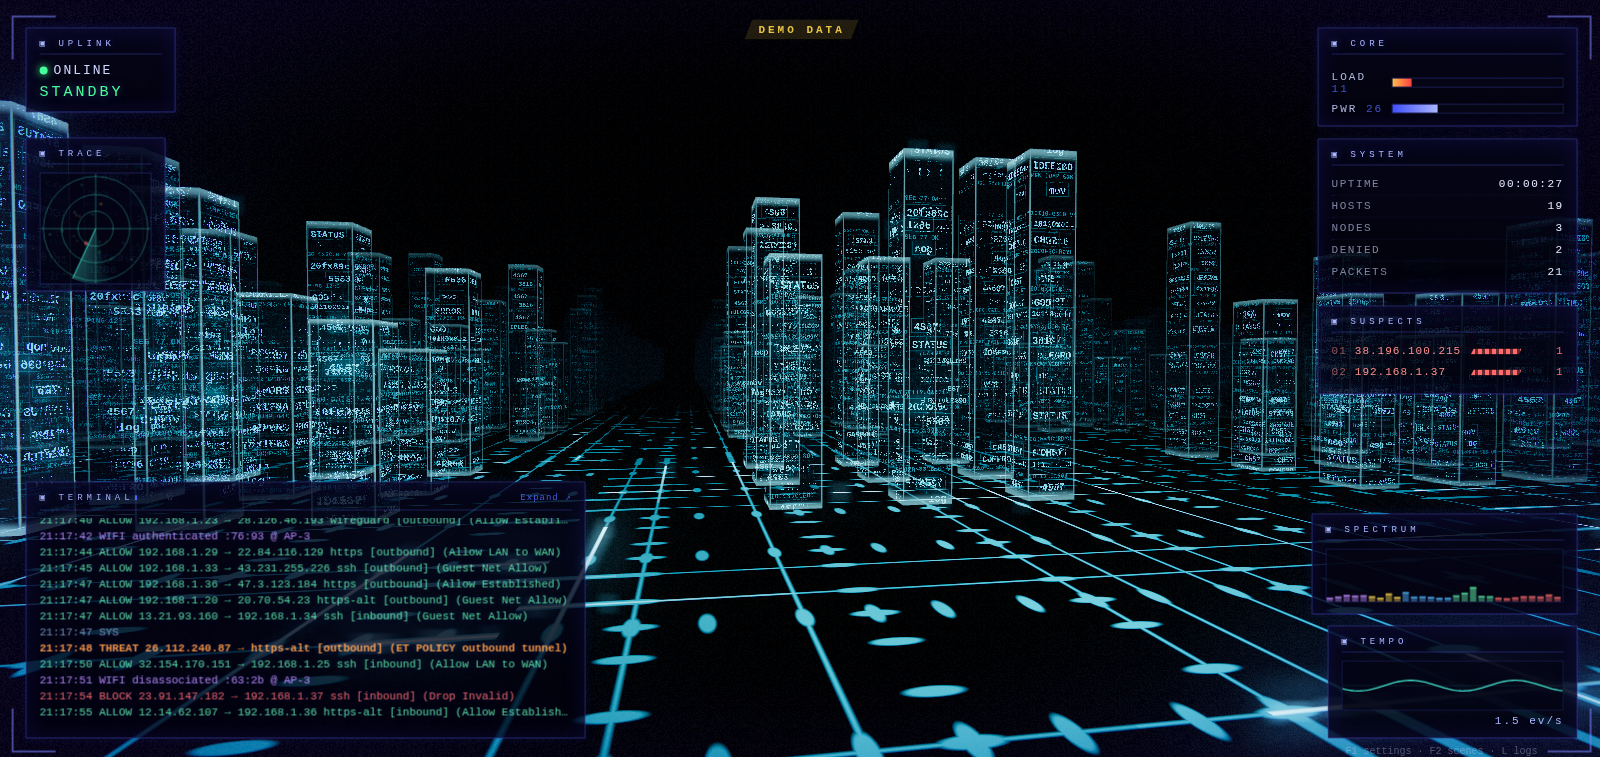
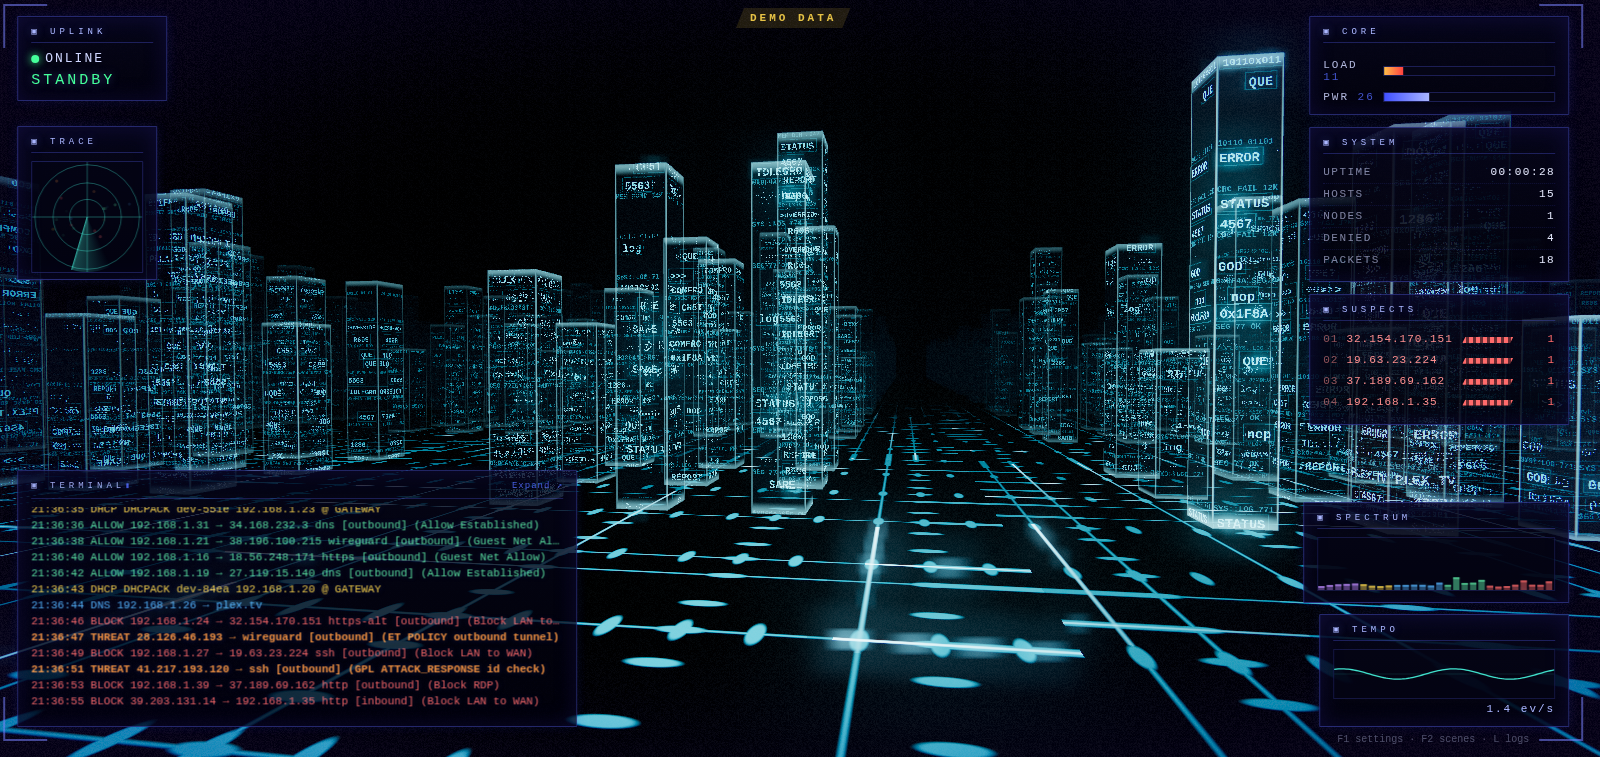
Gibson: the turn pivots in place at the intersection - no more clipping
The city kept streaming forward while it rotated, which sheared the block
lattice: the street the flight turned into was no longer where the camera
was pointing, and the towers came right through it. The camera now holds
still at the corner while the whole city swings around it (the flow pauses
for the pivot and resumes out the other side), so the lattice stays true
and the new street is dead ahead every time. Shorter swing, quieter copy.

diff --git a/web/src/themes/gibson/index.ts b/web/src/themes/gibson/index.ts
@@ -96,7 +96,7 @@ async function create(host: ThemeHost<typeof GIBSON_DEFAULTS>, init: RendererIni
   // the film's signs are rare, punctuation not wallpaper: minutes apart
   let nextDeny = 0, nextGrant = 0, flyT = Math.random() * 100;
   // the intersection turn: full 90s down the computer city's grid
-  const TURN_DUR = 3.2;
+  const TURN_DUR = 2.2;
   let turning = false, turnT = 0, turnDone = 0, turnDir = 1, crossIn = CITY_P * (1 + ((Math.random() * 2) | 0));
   const banner = (text: string, color: string, nextRef: 'deny' | 'grant', everySec: number, jitterSec: number) => {
     const now = performance.now();
@@ -187,11 +187,12 @@ async function create(host: ThemeHost<typeof GIBSON_DEFAULTS>, init: RendererIni
     }
     flyT += dtReal;
     const rate = state.rate30s / 30;
-    const speed = (0.9 + Math.min(2.5, rate * 0.06) + heat * 0.9) * settings.gScrollSpeed * (lockOn ? 0.3 : 1);
+    const speed = (0.9 + Math.min(2.5, rate * 0.06) + heat * 0.9) * settings.gScrollSpeed * (lockOn ? 0.3 : turning ? 0 : 1);
 
-    // the computer city: fly down a corridor and make a full 90-degree turn
-    // at every intersection. The camera stays put and the whole city swings
-    // around it - that swing IS the turn.
+    // the computer city: fly down a street and turn at every intersection.
+    // The camera holds still at the corner while the whole city swings around
+    // it, so the lattice stays true: when the swing ends, the new street is
+    // dead ahead. The flow pauses for the pivot and resumes out the other side.
     if (turning) {
       turnT += dtReal;
       const p = Math.min(1, turnT / TURN_DUR);

diff --git a/README.md b/README.md
@@ -19,8 +19,8 @@ your own traffic. Pick a scene per screen:
   screensavers, where your traffic swims past as fish
 - **The Gibson**: the storage wall from *Hackers* — a computer city of
   translucent monolith blocks lined in glowing cyan, flown through at street
-  level with full 90-degree turns at every intersection, until the camera
-  swings around to lock onto a red file and trace the intruder
+  level and turning at every corner, until the camera swings around to lock
+  onto a red file and trace the intruder
 
 There's no database, no cloud and nothing is recorded. pewpew only reads syslog
 and never touches the network itself.
@@ -789,9 +789,9 @@ drift** stops the camera.
 ![the gibson](docs/gibson.png)
 
 The storage wall from *Hackers*, rebuilt in 3D as a computer city: a grid of
-tower blocks with streets in both directions, flown at street level with a
-full 90-degree turn at every intersection - the whole city swings around the
-camera, exactly like the film's flythrough. The translucent monoliths are
+tower blocks with streets in both directions, flown at street level, turning
+at every corner - the whole city swings around the camera, exactly like the
+film's flythrough. The translucent monoliths are
 always standing, and their faces are covered in glowing cyan listings set in
 neat digital boxes — `STATUS`, `ERROR`, `REPORT`, `Security`, `R606`,
 `>OVERRIDE`, hex and binary — including the hostnames, addresses and domains
